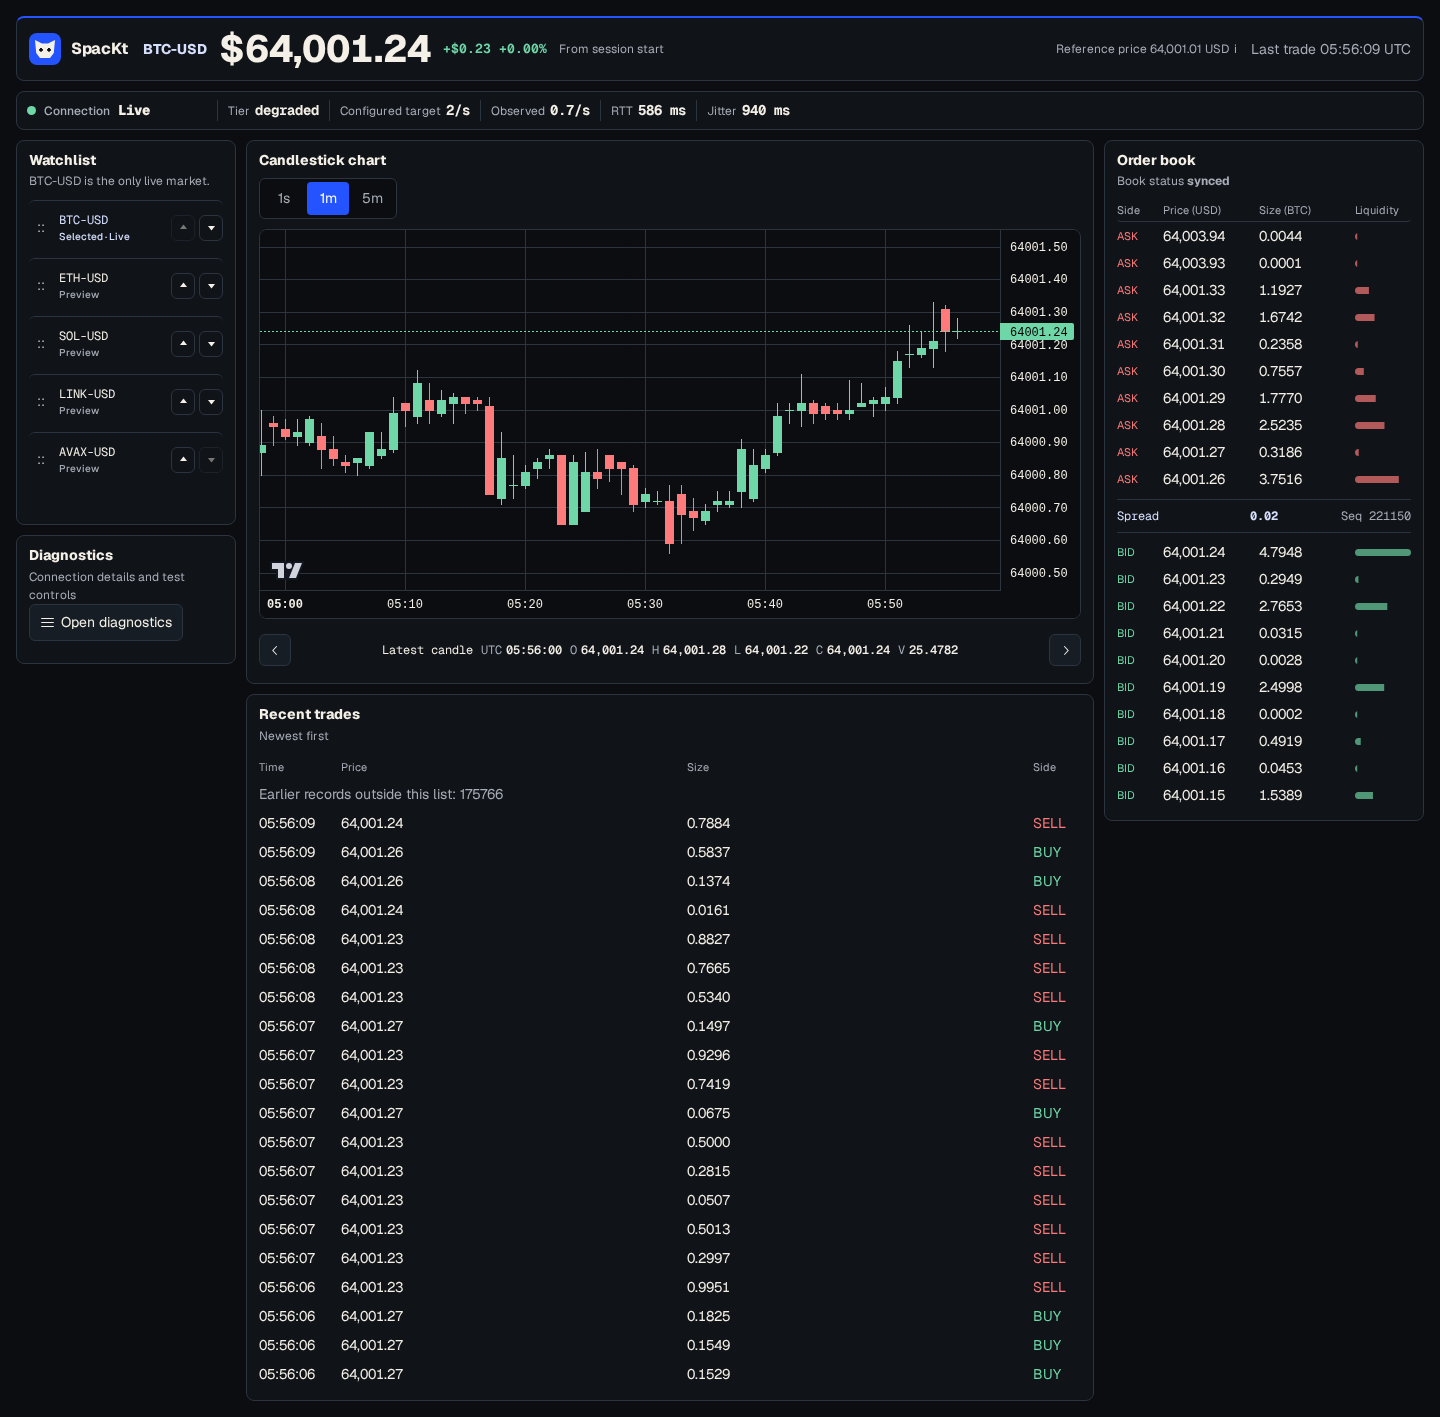
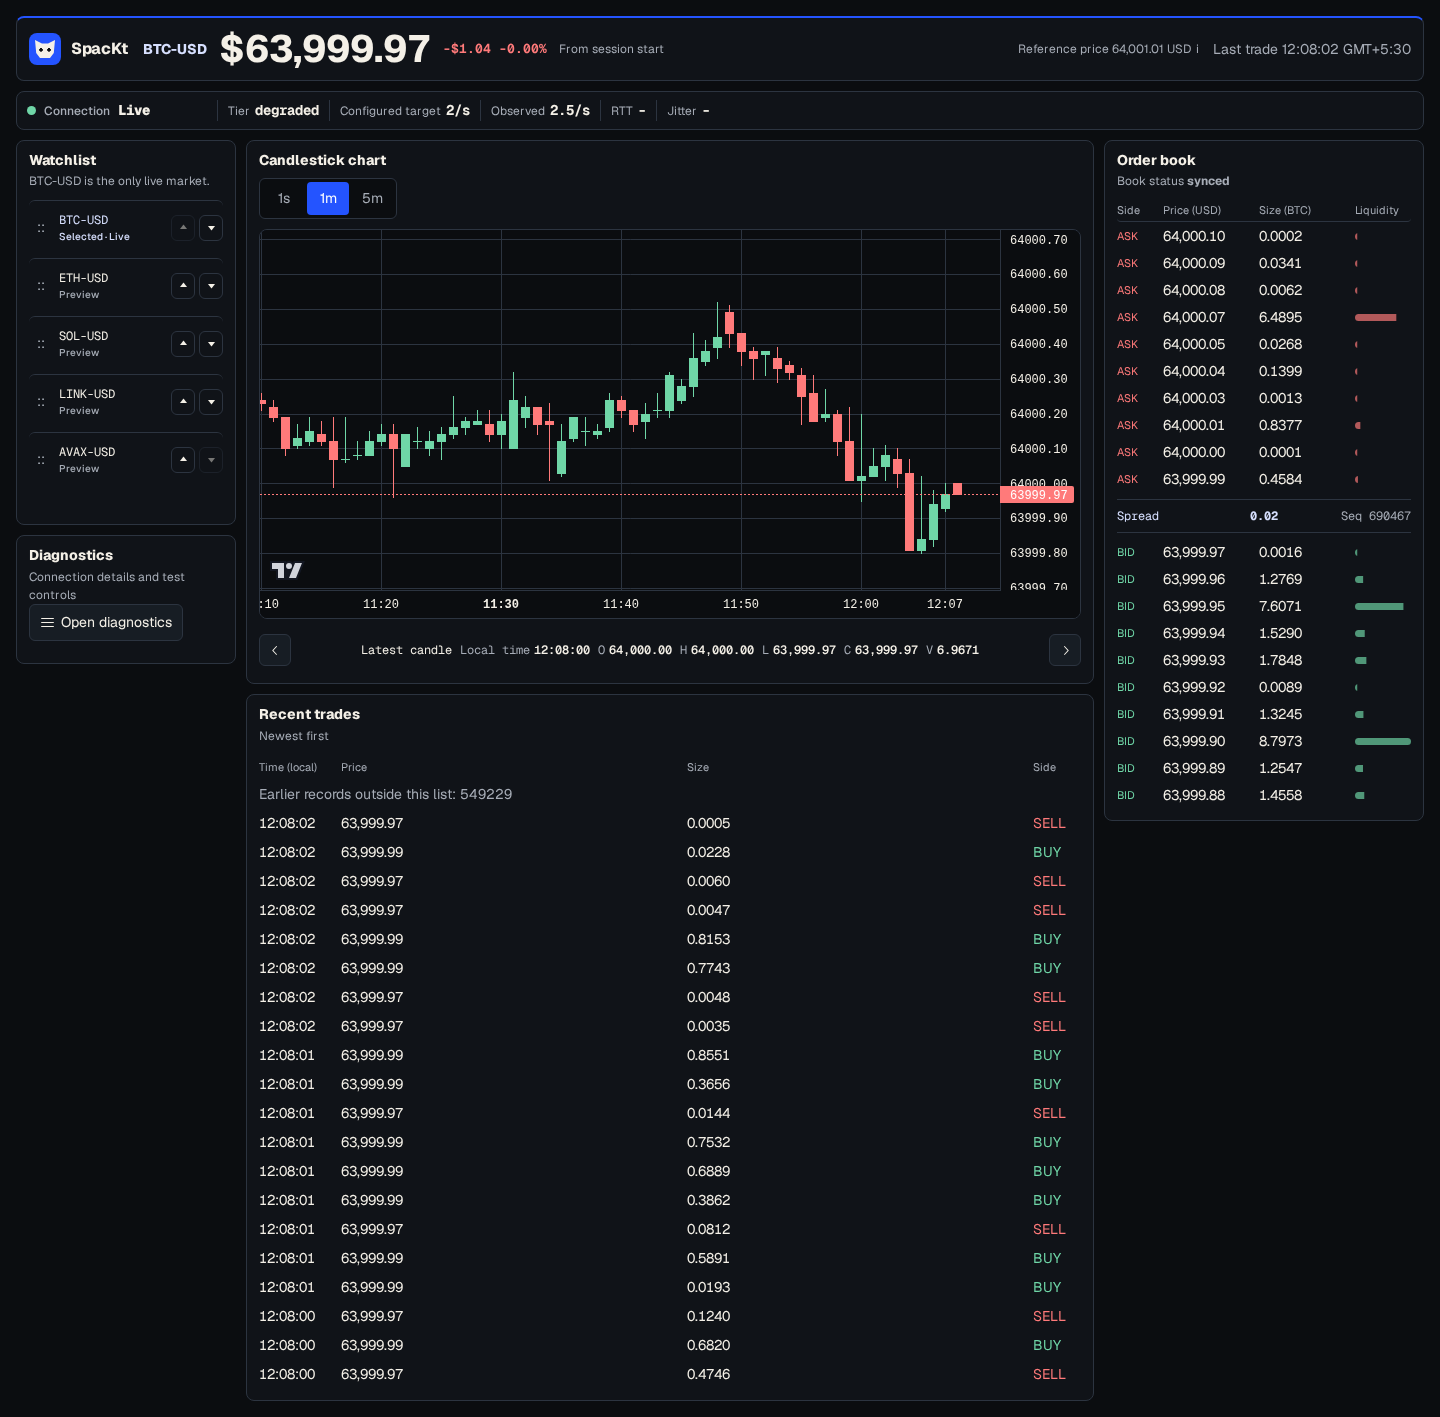
fix(web): Match the viewer's local clock
Format trade and candle labels in the browser time zone.
Show the zone in detailed labels and keep raw timestamps unchanged.
Keep chart formatting behind the lazy renderer boundary.

Rejected: Shift stored times | It would change candle identity
Tested: 549 unit, 27 security, and 31 browser cases
Tested: Types, lint, build, repository policy, and bundle loading
Tested: India and New York hydration and responsive layout

diff --git a/web/src/chart/display-time.ts b/web/src/chart/display-time.ts
@@ -1,0 +1,83 @@
+type FormatKind = "time" | "timeZone" | "dateTimeZone" | "year" | "month" | "day" | "minute";
+
+const locale = "en-US";
+const fallbackZone = "UTC";
+const formatterCache = new Map<string, Intl.DateTimeFormat>();
+
+export function formatLocalTime(timeMs: number | null | undefined): string {
+  if (timeMs === null || timeMs === undefined) return "-";
+  return formatDate(timeMs, "time");
+}
+
+export function formatLocalTimeWithZone(timeMs: number | null | undefined): string {
+  if (timeMs === null || timeMs === undefined) return "-";
+  return formatDate(timeMs, "timeZone");
+}
+
+export function formatLocalDateTimeWithZone(timeMs: number | null | undefined): string {
+  if (timeMs === null || timeMs === undefined) return "-";
+  return formatDate(timeMs, "dateTimeZone");
+}
+
+export function formatLocalYear(timeMs: number | null | undefined): string {
+  if (timeMs === null || timeMs === undefined) return "-";
+  return formatDate(timeMs, "year");
+}
+
+export function formatLocalMonth(timeMs: number | null | undefined): string {
+  if (timeMs === null || timeMs === undefined) return "-";
+  return formatDate(timeMs, "month");
+}
+
+export function formatLocalDay(timeMs: number | null | undefined): string {
+  if (timeMs === null || timeMs === undefined) return "-";
+  return formatDate(timeMs, "day");
+}
+
+export function formatLocalMinute(timeMs: number | null | undefined): string {
+  if (timeMs === null || timeMs === undefined) return "-";
+  return formatDate(timeMs, "minute");
+}
+
+function formatDate(timeMs: number, kind: FormatKind): string {
+  const date = new Date(timeMs);
+  if (Number.isNaN(date.getTime())) return "-";
+  return formatter(kind).format(date);
+}
+
+function formatter(kind: FormatKind): Intl.DateTimeFormat {
+  const zone = viewerTimeZone();
+  const key = `${zone}:${kind}`;
+  const cached = formatterCache.get(key);
+  if (cached) return cached;
+  const created = new Intl.DateTimeFormat(locale, { ...options(kind), timeZone: zone });
+  formatterCache.set(key, created);
+  return created;
+}
+
+function options(kind: FormatKind): Intl.DateTimeFormatOptions {
+  switch (kind) {
+    case "time":
+      return { hour: "2-digit", minute: "2-digit", second: "2-digit", hourCycle: "h23" };
+    case "timeZone":
+      return { hour: "2-digit", minute: "2-digit", second: "2-digit", hourCycle: "h23", timeZoneName: "short" };
+    case "dateTimeZone":
+      return { month: "short", day: "2-digit", year: "numeric", hour: "2-digit", minute: "2-digit", second: "2-digit", hourCycle: "h23", timeZoneName: "short" };
+    case "year":
+      return { year: "numeric" };
+    case "month":
+      return { month: "short" };
+    case "day":
+      return { month: "short", day: "2-digit" };
+    case "minute":
+      return { hour: "2-digit", minute: "2-digit", hourCycle: "h23" };
+  }
+}
+
+function viewerTimeZone(): string {
+  try {
+    return new Intl.DateTimeFormat(locale).resolvedOptions().timeZone || fallbackZone;
+  } catch {
+    return fallbackZone;
+  }
+}

diff --git a/web/e2e/local-time.spec.ts b/web/e2e/local-time.spec.ts
@@ -16,7 +16,7 @@ async function newTimezonePage(browser: Browser, timezoneId: string): Promise<{ 
 
 async function installTimeObserver(page: Page) {
   await page.addInitScript(() => {
-    const observedWindow = window as Window & {
+    const observedWindow = window as unknown as Window & {
       __spacktTimes: {
         trades: number[];
         candles: number[];
@@ -72,23 +72,11 @@ function chartLocalTime(page: Page) {
 
 async function observedTimes(page: Page, key: keyof ObservedTimes) {
   return page.evaluate((observedKey) => {
-    const observedWindow = window as Window & {
+    const observedWindow = window as unknown as Window & {
       __spacktTimes?: ObservedTimes;
     };
     return observedWindow.__spacktTimes?.[observedKey].slice(-50) ?? [];
   }, key);
-}
-
-async function formatInBrowser(page: Page, timeMsValues: number[]) {
-  return page.evaluate((value) =>
-    value.map((timeMs) => new Intl.DateTimeFormat("en-US", {
-      hour: "2-digit",
-      minute: "2-digit",
-      second: "2-digit",
-      hourCycle: "h23",
-      timeZoneName: "short",
-    }).format(new Date(timeMs))),
-  timeMsValues);
 }
 
 async function formatTimeOnlyInBrowser(page: Page, timeMsValues: number[]) {
@@ -123,12 +111,10 @@ async function expectDashboardUsesBrowserLocalTime(page: Page) {
   const summary = region(page, "Market summary");
   const trades = region(page, "Recent trades");
 
-  await expect.poll(async () => {
-    const expectedTradeTimes = await formatInBrowser(page, await observedTimes(page, "trades"));
-    const summaryText = await summary.textContent();
-    return expectedTradeTimes.some((time) => summaryText?.includes(`Last trade ${time}`));
-  }).toBe(true);
-  await expect(trades.getByRole("columnheader", { name: /time \(local\)/i })).toBeVisible();
+  await expect
+    .poll(async () => (await summary.textContent()) ?? "")
+    .toMatch(/Last trade \d{2}:\d{2}:\d{2} (?:GMT|[A-Z]{2,4})/);
+  await expect(trades.getByText("Time (local)", { exact: true })).toBeVisible();
   await expect.poll(async () => {
     const expectedTradeTimes = await formatTimeOnlyInBrowser(page, await observedTimes(page, "trades"));
     const visibleTime = (await firstTradeTimeCell(page))?.trim() ?? "";

diff --git a/web/src/chart/adapter.ts b/web/src/chart/adapter.ts
@@ -1,7 +1,16 @@
 import type { Candle } from "../domain/model";
 import {
+  formatLocalDateTimeWithZone,
+  formatLocalDay,
+  formatLocalMinute,
+  formatLocalMonth,
+  formatLocalTime,
+  formatLocalYear,
+} from "./display-time";
+import {
   CandlestickSeries,
   createChart,
+  TickMarkType,
   type CandlestickData,
   type ISeriesApi,
   type LogicalRange,
@@ -52,8 +61,12 @@ const CHART_OPTIONS = {
     borderColor: "#2C3440",
     timeVisible: true,
     secondsVisible: true,
+    tickMarkFormatter: formatChartTick,
     barSpacing: DEFAULT_BAR_SPACING,
     rightOffset: LIVE_RIGHT_OFFSET,
+  },
+  localization: {
+    timeFormatter: formatChartTime,
   },
 };
 
@@ -69,6 +82,39 @@ const CANDLE_OPTIONS = {
 
 type ChartBar = CandlestickData<UTCTimestamp>;
 type CandleSeries = ISeriesApi<"Candlestick", Time>;
+
+function chartTimeToMs(time: Time): number | null {
+  if (typeof time === "number") {
+    return time * 1_000;
+  }
+  if (typeof time === "string") {
+    const parsed = Date.parse(time);
+    return Number.isNaN(parsed) ? null : parsed;
+  }
+  return Date.UTC(time.year, time.month - 1, time.day);
+}
+
+function formatChartTime(time: Time): string {
+  return formatLocalDateTimeWithZone(chartTimeToMs(time));
+}
+
+function formatChartTick(time: Time, tickMarkType: TickMarkType): string {
+  const timeMs = chartTimeToMs(time);
+  switch (tickMarkType) {
+    case TickMarkType.Year:
+      return formatLocalYear(timeMs);
+    case TickMarkType.Month:
+      return formatLocalMonth(timeMs);
+    case TickMarkType.DayOfMonth:
+      return formatLocalDay(timeMs);
+    case TickMarkType.Time:
+      return formatLocalMinute(timeMs);
+    case TickMarkType.TimeWithSeconds:
+      return formatLocalTime(timeMs);
+    default:
+      return formatLocalTime(timeMs);
+  }
+}
 
 function toChartTime(timeMs: number): UTCTimestamp {
   return (timeMs / 1_000) as UTCTimestamp;

diff --git a/web/src/ui/format.ts b/web/src/ui/format.ts
@@ -1,5 +1,6 @@
 import type { Candle, Level, Trade } from "../domain/model";
 import type { Meta } from "../domain/market-view";
+import { formatLocalTime, formatLocalTimeWithZone } from "../chart/display-time";
 
 const fallbackPriceDecimals = 2;
 const fallbackLotDecimals = 4;
@@ -22,18 +23,14 @@ export function formatLots(value: number | null | undefined, meta: Meta | null):
 }
 
 export function formatCandle(candle: Candle | null, meta: Meta | null): string {
-  if (!candle) return "UTC -  O -  H -  L -  C -  V -";
-  return `${formatUTC(candle.timeMs)} UTC  O ${formatPriceTicks(candle.openTicks, meta)}  H ${formatPriceTicks(candle.highTicks, meta)}  L ${formatPriceTicks(candle.lowTicks, meta)}  C ${formatPriceTicks(candle.closeTicks, meta)}  V ${formatLots(candle.volumeLots, meta)}`;
+  if (!candle) return "Local time -  O -  H -  L -  C -  V -";
+  return `${formatLocalTimeWithZone(candle.timeMs)}  O ${formatPriceTicks(candle.openTicks, meta)}  H ${formatPriceTicks(candle.highTicks, meta)}  L ${formatPriceTicks(candle.lowTicks, meta)}  C ${formatPriceTicks(candle.closeTicks, meta)}  V ${formatLots(candle.volumeLots, meta)}`;
 }
 
-export function formatUTC(timeMs: number | null | undefined): string {
-  if (timeMs === null || timeMs === undefined) return "-";
-  return new Date(timeMs).toISOString().slice(11, 19);
-}
+export { formatLocalTime };
 
 export function formatStatusTime(timeMs: number | null | undefined): string {
-  if (timeMs === null || timeMs === undefined) return "-";
-  return `${formatUTC(timeMs)} UTC`;
+  return formatLocalTimeWithZone(timeMs);
 }
 
 export function formatRateFromFlush(flushMs: number | null | undefined): string {

diff --git a/web/src/ui/recent-trades.tsx b/web/src/ui/recent-trades.tsx
@@ -1,5 +1,5 @@
 import type { MarketRuntimeSnapshot } from "../domain/market-view";
-import { formatLots, formatPriceTicks, formatUTC } from "./format";
+import { formatLocalTime, formatLots, formatPriceTicks } from "./format";
 
 export function RecentTrades({ snapshot }: { snapshot: MarketRuntimeSnapshot }) {
   const meta = snapshot.meta.value;
@@ -15,7 +15,7 @@ export function RecentTrades({ snapshot }: { snapshot: MarketRuntimeSnapshot }) 
       </div>
       <div className="trade-table" role="table" aria-label="Recent trades table">
         <div className="trade-row table-head" role="row">
-          <span role="columnheader">Time</span>
+          <span role="columnheader">Time (local)</span>
           <span role="columnheader">Price</span>
           <span role="columnheader">Size</span>
           <span role="columnheader">Side</span>
@@ -33,7 +33,7 @@ export function RecentTrades({ snapshot }: { snapshot: MarketRuntimeSnapshot }) 
           </div>
         ) : trades.map((trade) => (
           <div className="trade-row" role="row" key={trade.id}>
-            <span role="cell" className="numeric">{formatUTC(trade.timeMs)}</span>
+            <span role="cell" className="numeric">{formatLocalTime(trade.timeMs)}</span>
             <span role="cell" className="numeric">{formatPriceTicks(trade.priceTicks, meta)}</span>
             <span role="cell" className="numeric">{formatLots(trade.quantityLots, meta)}</span>
             <span role="cell" className={trade.side === "buy" ? "buy-text" : "sell-text"}>

diff --git a/web/src/ui/market-chart.tsx b/web/src/ui/market-chart.tsx
@@ -5,7 +5,7 @@ import { ChevronLeftIcon, ChevronRightIcon, ReloadIcon } from "@radix-ui/react-i
 import { useEffect, useMemo, useRef, useState } from "react";
 import type { MarketRuntimeSnapshot } from "../domain/market-view";
 import type { Candle, Interval } from "../domain/model";
-import { formatCandle, formatLots, formatPriceTicks, formatUTC, latestCandle } from "./format";
+import { formatCandle, formatLocalTime, formatLots, formatPriceTicks, latestCandle } from "./format";
 
 type MarketChartProps = {
   snapshot: MarketRuntimeSnapshot;
@@ -174,7 +174,7 @@ export function MarketChart({ snapshot, onSelectInterval }: MarketChartProps) {
         </button>
         <div className="candle-legend">
           <span className="legend-mode">{inspectedCandle ? "Inspecting candle" : "Latest candle"}</span>
-          <LegendCell label="UTC" value={formatUTC(activeCandle?.timeMs)} />
+          <LegendCell label="Local time" value={formatLocalTime(activeCandle?.timeMs)} />
           <LegendCell label="O" value={formatPriceTicks(activeCandle?.openTicks, meta)} />
           <LegendCell label="H" value={formatPriceTicks(activeCandle?.highTicks, meta)} />
           <LegendCell label="L" value={formatPriceTicks(activeCandle?.lowTicks, meta)} />

diff --git a/web/src/chart/adapter.test.ts b/web/src/chart/adapter.test.ts
@@ -1,4 +1,4 @@
-import { beforeEach, describe, expect, it, vi } from "vitest";
+import { afterEach, beforeEach, describe, expect, it, vi } from "vitest";
 import type { Candle } from "../domain/model";
 import { mountCandleChart } from "./adapter";
 
@@ -95,10 +95,14 @@ const chartPort = vi.hoisted(() => {
   };
 });
 
-vi.mock("lightweight-charts", () => ({
-  CandlestickSeries: chartPort.CandlestickSeries,
-  createChart: chartPort.createChart,
-}));
+vi.mock("lightweight-charts", async (importOriginal) => {
+  const actual = await importOriginal<typeof import("lightweight-charts")>();
+  return {
+    ...actual,
+    CandlestickSeries: chartPort.CandlestickSeries,
+    createChart: chartPort.createChart,
+  };
+});
 
 const container = {} as HTMLElement;
 

diff --git a/README.md b/README.md
@@ -62,6 +62,8 @@ The chart follows the latest candle while you watch the live edge.
 Scroll into history to pause follow, then select **Go Live** to return.
 Scrolling back to the live edge also resumes follow.
 Changing intervals keeps your chosen candle width.
+Trade times, candle details, and chart labels use your browser's local time zone.
+Detailed time labels show the zone. Market timestamps and candle calculations remain in UTC.
 
 The order book starts from a REST snapshot.
 The browser buffers WebSocket ranges while the snapshot is in flight.
@@ -208,3 +210,6 @@ A restart creates a new backend session.
 It does not place real orders, connect to a real exchange, or persist server market data.
 The watchlist contains preview rows, but only `BTC-USD` is live.
 The static frontend must be rebuilt when the backend origin changes.
+The free Render backend can sleep after 15 minutes without inbound traffic.
+The next connection can take about one minute while it starts.
+See [Render's free service limits](https://render.com/docs/free#spinning-down-on-idle).

diff --git a/docs/architecture.md b/docs/architecture.md
@@ -436,3 +436,15 @@ Go Live returns to the newest candle without changing zoom.
 Bulk replacements preserve the live offset when following.
 Historical views use a candle timestamp anchor because array indices can change after trimming or recovery.
 The adapter ignores transient range callbacks during data replacement and pending history loads.
+
+## Display time
+
+The browser uses `Intl.DateTimeFormat` to format market events in its local time zone.
+The formatter uses the event date, so daylight-saving changes follow the browser's time-zone rules.
+Trade rows, last-trade text, candle details, chart ticks, and crosshair labels share this display rule.
+Detailed labels include the zone. Compact labels use a 24-hour clock.
+
+Wire timestamps remain UTC epoch milliseconds. Chart series use the same instants in seconds.
+Display formatting does not shift timestamps, change candle keys, or change candle aggregation.
+The pure time formatter has no chart-library runtime dependency.
+The chart adapter loads the renderer separately when the chart mounts.

diff --git a/docs/protocol.md b/docs/protocol.md
@@ -20,6 +20,9 @@ All ordering IDs, revisions, and millisecond times must be safe integers in Java
 - `requestId`: browser-issued positive integer identifying one candle subscription generation.
 - `t`: UTC milliseconds since the Unix epoch for market records.
 
+The browser formats visible times in the viewer's local time zone.
+This changes labels only. It does not change `t`, ordering, or candle buckets.
+
 A candle key is `(session, symbol, interval, t)`.
 A higher candle `rev` replaces a lower revision of that key.
 Equal revision with unequal values is invalid data and causes candle resynchronization.
